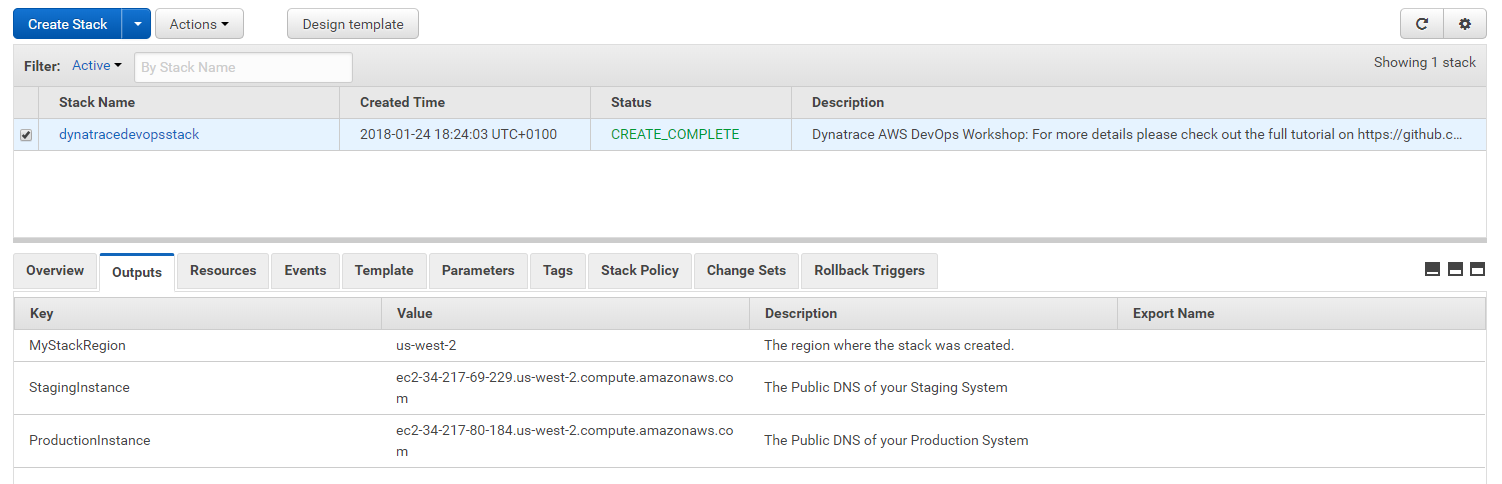
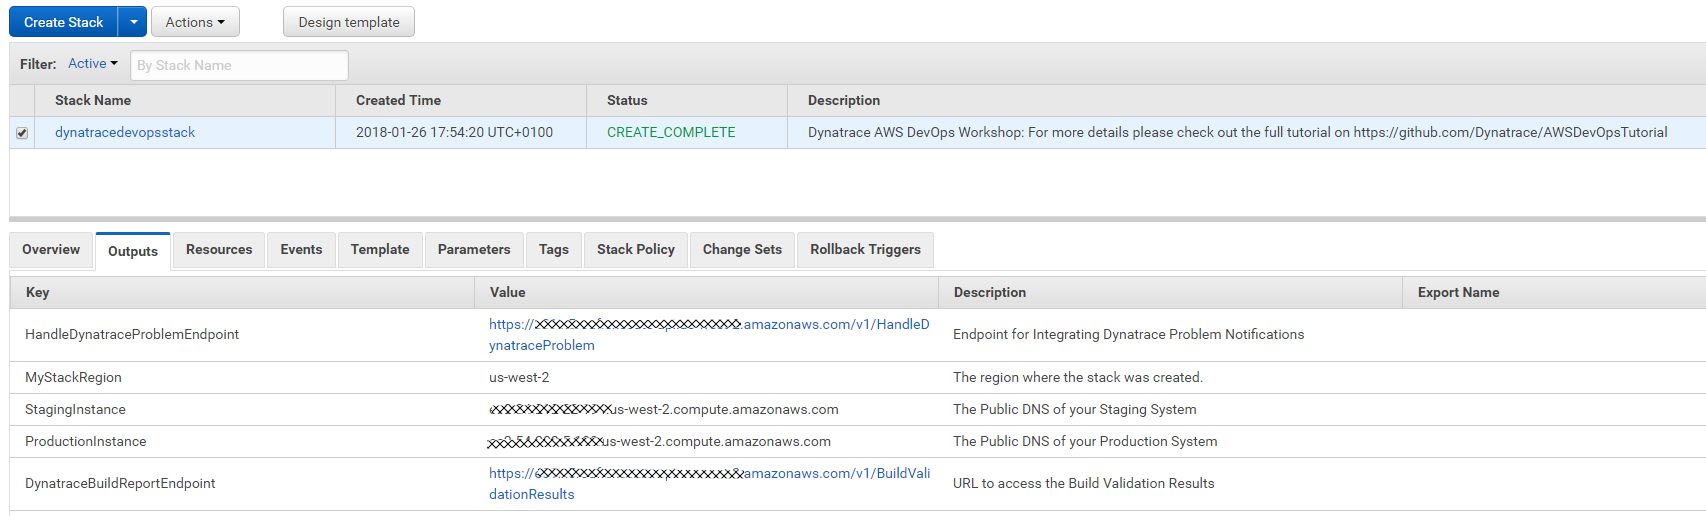
fixed readme and lambda

diff --git a/README.md b/README.md
@@ -44,9 +44,9 @@ Now click on one of the regional links. This brings you to the CloudFormation We
 
 Region | Launch Template
 ------------ | -------------
+**Oregon** (us-west-2) | <a href="https://console.aws.amazon.com/cloudformation/home?region=us-west-2#/stacks/new?stackName=dynatracedevopsstack" target="blank">Launch Dynatrace DevOps Stack into Oregon</a>
 **N. Virginia** (us-east-1) | <a href="https://console.aws.amazon.com/cloudformation/home?region=us-east-1#/stacks/new?stackName=dynatracedevopsstack" target="_blank">Launch Dynatrace DevOps Stack into Virginia</a>
 **Ohio** (us-east-2) | <a href="https://console.aws.amazon.com/cloudformation/home?region=us-east-2#/stacks/new?stackName=dynatracedevopsstack" target="blank">Launch Dynatrace DevOps Stack into Ohio</a>
-**Oregon** (us-west-2) | <a href="https://console.aws.amazon.com/cloudformation/home?region=us-west-2#/stacks/new?stackName=dynatracedevopsstack" target="blank">Launch Dynatrace DevOps Stack into Oregon</a>
 **Ireland** (eu-west-1) | <a href="https://console.aws.amazon.com/cloudformation/home?region=eu-west-1#/stacks/new?stackName=dynatracedevopsstack" target="blank">Launch Dynatrace DevOps Stack into Ireland</a>
 **Frankfurt** (eu-central-1) | <a href="https://console.aws.amazon.com/cloudformation/home?region=us-central-1#/stacks/new?stackName=dynatracedevopsstack" target="blank">Launch Dynatrace DevOps Stack into Frankfurt</a>
 **Tokyo** (ap-northeast-1) | <a href="https://console.aws.amazon.com/cloudformation/home?region=ap-northeast-1#/stacks/new?stackName=dynatracedevopsstack" target="blank">Launch Dynatrace DevOps Stack into Tokyo</a>
@@ -88,27 +88,30 @@ When clicking on one of these hosts you can also see that Dynatrace alread does 
 ![](./images/createstack_dynatracehost1.png)
 **Notice:** If you have the [Dynatrace AWS CloudWatch](https://www.dynatrace.com/support/help/cloud-platforms/amazon-web-services/how-do-i-start-amazon-web-services-monitoring/) integraton setup you will see all AWS Tags being pulled in automatically. Also expand the properties section and see what meta data we collect. This is good to know as Dynatrace can do A LOT with metadata, e.g: rule based tags, rule based naming, ...
 
-**ACTION: Configure Dynatrace Service Tag Rule for automatic Staging/Production detection**
-Before we move back to AWS we have to do one additonal configuration step in Dynatrace.
-While Dynatrace automatically identifies services based on service metadata, e.g: service name, technology, endpoints ... we can go a step further. If the same service (same name, technology, endpoints ...) is deployed into different environments (Staging, Production) we want Dynatrace to understand which services run in which environments.
-For Dynatrace to automatically distinguish between a Staging and a Production version of a Microservice we leverage what is called "Rule-Based Tagging". AWS CodeDeploy will pass the Deployment Stage Name (Staging and Production) as an environment variable to the EC2 machine. Dynatrace will automatically pick up these environment variables as additional meta data but doesnt do anything with them unless we specify a rule that extracts this variable and applies it to the microservice monitoring entities. 
-Please go to *Settings -> Tags -> Automatically applied tags* and add a new rule as shown in the next screenshot:
-- Call the rule DeploymentGroup
-- Specify the rule for Services
-- In Optional Tag Value add: {ProcessGroup:Environment:DEPLOYMENT_GROUP_NAME}
-- In the Condidition also specify that only those services should be tagged that contain that Environment Variable on the Process
-![](./images/preparation_dynatrace_servicetagging.png)
-
-
 ### CodePipeline: Automatically Integrated with Dynatrace
 
 Go to AWS CodePipeline and validate that you see this new pipeline
 ![](./images/createstack_codepipeline1.png)
 
-The Pipeline probably already executed as this happens automatically after CloudFormation created the Pipeline. The pipeline most likely failed at the "PushDynatraceDeploymentEvent" action. Thats OK and expected. If you click on details you will see that Dynatrace hasnt yet detected the Entities we try to push information to. Thats also OK and expected! It was missing the Service Tag Rule we just configured.
+**First Pipeline Run will FAIL :-(**
+The Pipeline probably already executed as this happens automatically after CloudFormation created the Pipeline. The pipeline most likely failed at the "PushDynatraceDeploymentEvent" action. Thats OK and expected. If you click on details you will see that Dynatrace hasn't yet detected the Entities we try to push information to. This is a missing configuration step on the Dynatrace side.
+![](./images/createstack_codepipeline1_failed.png)
+
+**Action: Configure Proper Dynatrace Service Tagging to detect Staging vs Production Services**
+While Dynatrace automatically identifies services based on service metadata, e.g: service name, technology, endpoints ... we can go a step further. 
+If the same service (same name, technology, endpoints ...) is deployed into different environments (Staging, Production) we want Dynatrace to understand which services run in which environments and put a Tag on it. Exactly the tag that our pipeline is expecting so that we can push and pull information for the each services based on which environment it is in!
+For Dynatrace to automatically distinguish between a Staging and a Production version of a Microservice we leverage what is called "Rule-Based Tagging". AWS CodeDeploy will pass the Deployment Stage Name (Staging and Production) as an environment variable to the EC2 machine. Dynatrace will automatically pick up these environment variables as additional meta data but doesnt do anything with them unless we specify a rule that extracts this variable and applies it to the microservice monitoring entities. 
+Please go to *Settings -> Tags -> Automatically applied tags* and add a new rule as shown in the next screenshot:
+- Call the new Tag *DeploymentGroup*
+- Edit that Tag and add a new rule that applies for *Services*
+- In Optional Tag Value add: {ProcessGroup:Environment:DEPLOYMENT_GROUP_NAME}
+- In the Condidition also specify that only those services should be tagged where the *Process Group Environment Variable DEPLOYMENT_GROUP_NAME exists*
+- You can click on Preview to see which Services it matches. It should already match our Staging Service!
+- Click SAVE!
+![](./images/preparation_dynatrace_servicetagging.png)
 
 **ACTION: Lets run the Pipeline again**
-As we finished the final configuration step on the Dynatrace side we are now ready to run the Pipeline again. Simply click on "Release change"
+As the Dynatrace configuration for automated Service Tagging is now done, we simply run the pipeline again. Lets click on "Release change"
 ![](./images/createstack_codepipeline2.png)
 
 *Pipeline Stages: Source and Staging*
